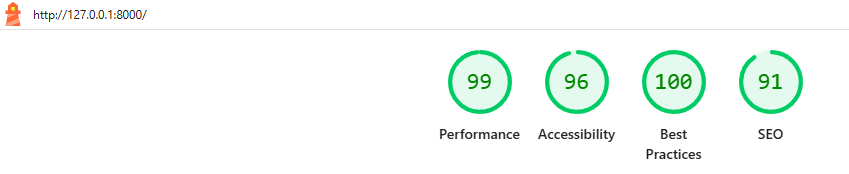
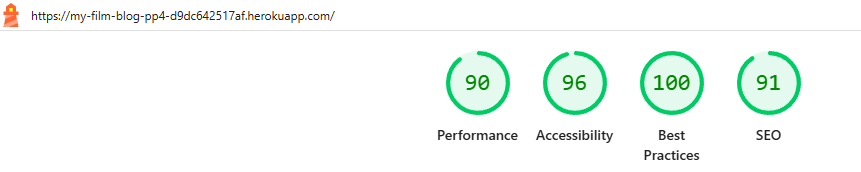
Update Lighthouse testing

diff --git a/review/views.py b/review/views.py
@@ -137,7 +137,8 @@ def about(request):
         form = ReviewRequestForm(request.POST)
         if form.is_valid():
             form.save()
-            messages.success(request, "🎉 We've got your request! Check back later!")
+            messages.success
+            (request, "🎉 We've got your request! Check back later!")
             return redirect('about')
 
     # Reset Request Form

diff --git a/mysite/settings.py b/mysite/settings.py
@@ -28,7 +28,7 @@ TEMPLATES_DIR = os.path.join(BASE_DIR, 'templates')
 SECRET_KEY = os.environ.get("SECRET_KEY")
 
 # SECURITY WARNING: don't run with debug turned on in production!
-DEBUG = True
+DEBUG = False
 
 
 ALLOWED_HOSTS = ['.herokuapp.com', '127.0.0.1']
